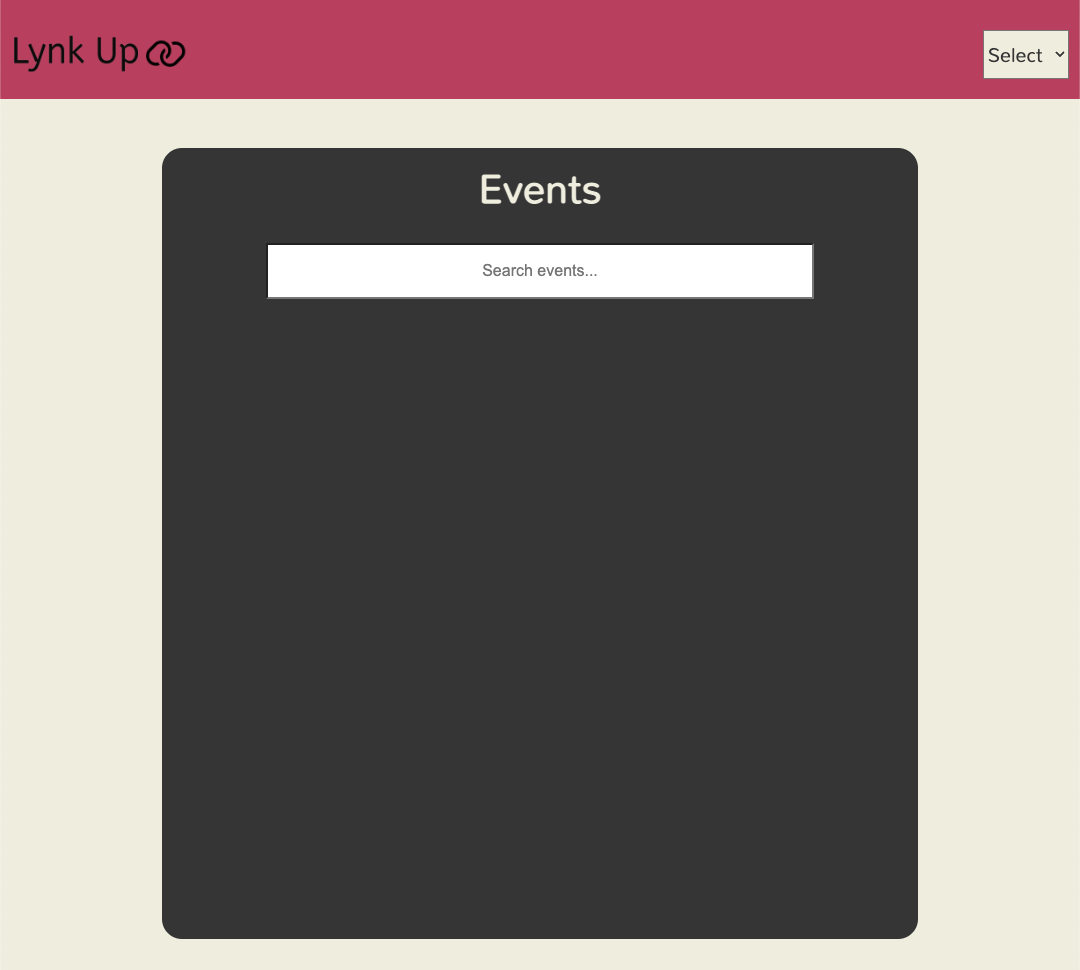
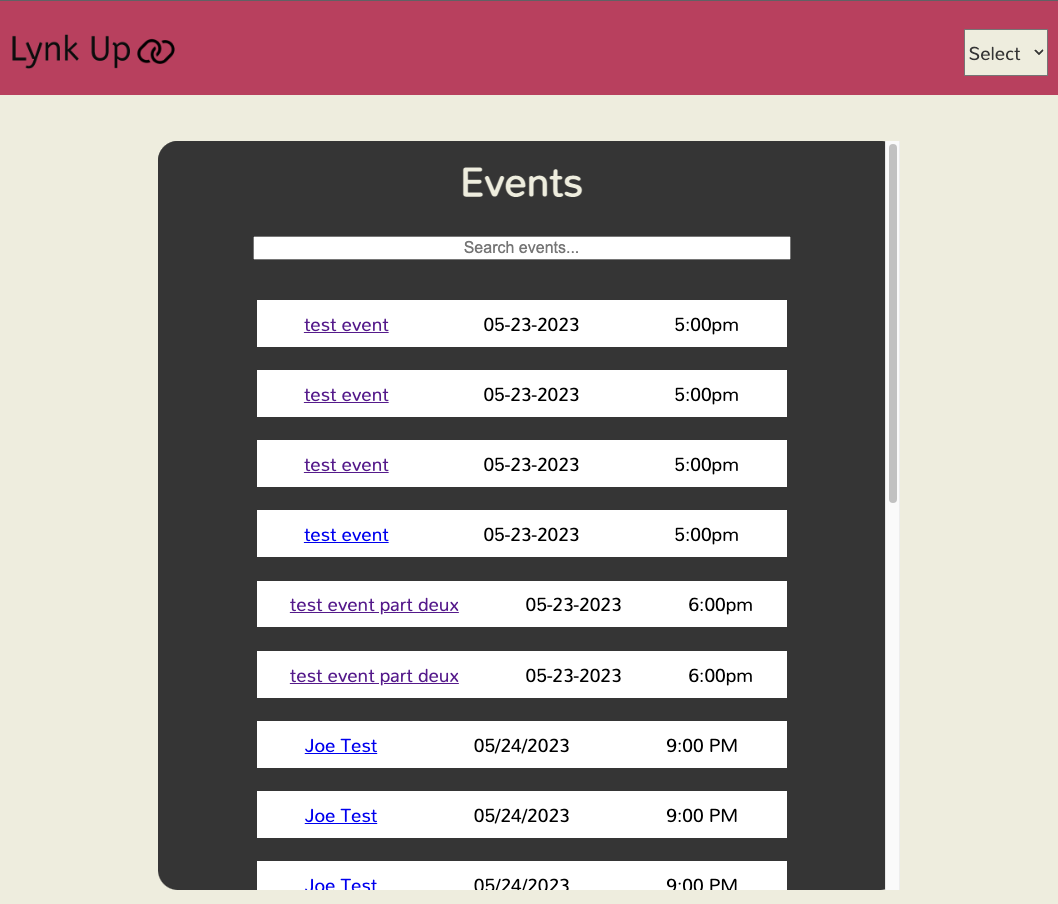
docs: Add images to Lynk Up

Changed region(s): [[0.1248, 0.1549, 0.8733, 0.9912], [0.0, 0.0, 1.0, 0.1239], [0.4367, 0.1549, 0.5614, 0.2168]]

diff --git a/src/projects.js b/src/projects.js
@@ -1,5 +1,5 @@
 const projects = [
-  {id: "project5", title: "Lynk Up", type: "school", languages: ["Python", "JavaScript"], description: "Lynk Up is a platform for creating, discovering, and managing events. From small gatherings, meetings, to large parties, Lynk Up provides an intuitive and user-friendly platform to manage them all. It encourages social interaction by allowing users to form friend groups and seamlessly organize events with them.", images: ["/images/lynk_up_home.png"]},
+  {id: "project5", title: "Lynk Up", type: "school", languages: ["Python", "JavaScript"], description: "Lynk Up is a platform for creating, discovering, and managing events. From small gatherings, meetings, to large parties, Lynk Up provides an intuitive and user-friendly platform to manage them all. It encourages social interaction by allowing users to form friend groups and seamlessly organize events with them.", images: ["/images/lynk_up_home.png", "/images/lynk_up_event.png", "/images/lynk_up_create_event.png", "/images/lynk_up_friends.png", "/images/lynk_up_groups.png"]},
   {id: "project1", title: "Character Chords", type: "school", languages: ["Ruby"], description: "Explore Character Chords, a cutting-edge app merging personality assessments with AI-driven music discovery. Harnessing Ruby on Rails, PostgreSQL, CircleCI, and Amazon S3, this full-stack app integrates Spotify and OpenAI APIs to create a tailored listening experience based on users' personality traits and preferences. With Spotify OAuth, users securely access their accounts, ensuring seamless compatibility with existing preferences. Character Chords offers a technically advanced, personalized musical journey for its users", images: ["/images/cc_home.png", "/images/cc_quiz.png", "/images/cc_result.png", "/images/cc_playlist.png"]},
   {id: "project6", title: "Quest Keeper", type: "personal", languages: ["Ruby", "JavaScript"], description: "Quest Keeper is a full-stack web application that serves as an all-in-one game master guide for Dungeons and Dragons (D&D) players. It offers features like character creation, monster and item lookup, and a dungeon builder. Designed to enhance the D&D experience, Quest Keeper provides a comprehensive toolkit for players and game masters, simplifying session management and fostering creativity in gameplay.", images: ["path_to_project4_wireframe"]},
   {id: "project2", title: "Cinema Social", type: "school", languages: ["Ruby"], description: "Discover Cinema Social, a web application that simplifies movie night planning with friends. This innovative app leverages Ruby on Rails, PostgreSQL, HTML, and CSS to provide a seamless user experience. By utilizing APIs from The Movie Database (TMDb), Cinema Social allows users to search for movies by title, cast, or director, view comprehensive details, and receive personalized recommendations based on their search history. With the ability to create movie viewing events, add friends to attendee lists, and implement secure user authentication through the Devise gem, Cinema Social ensures an enjoyable and collaborative movie night experience.", images: ["/images/cs_home.png", "/images/cs_home_logged_in.png", "/images/cs_movie_search.png", "/images/cs_movie_results.png"]},
